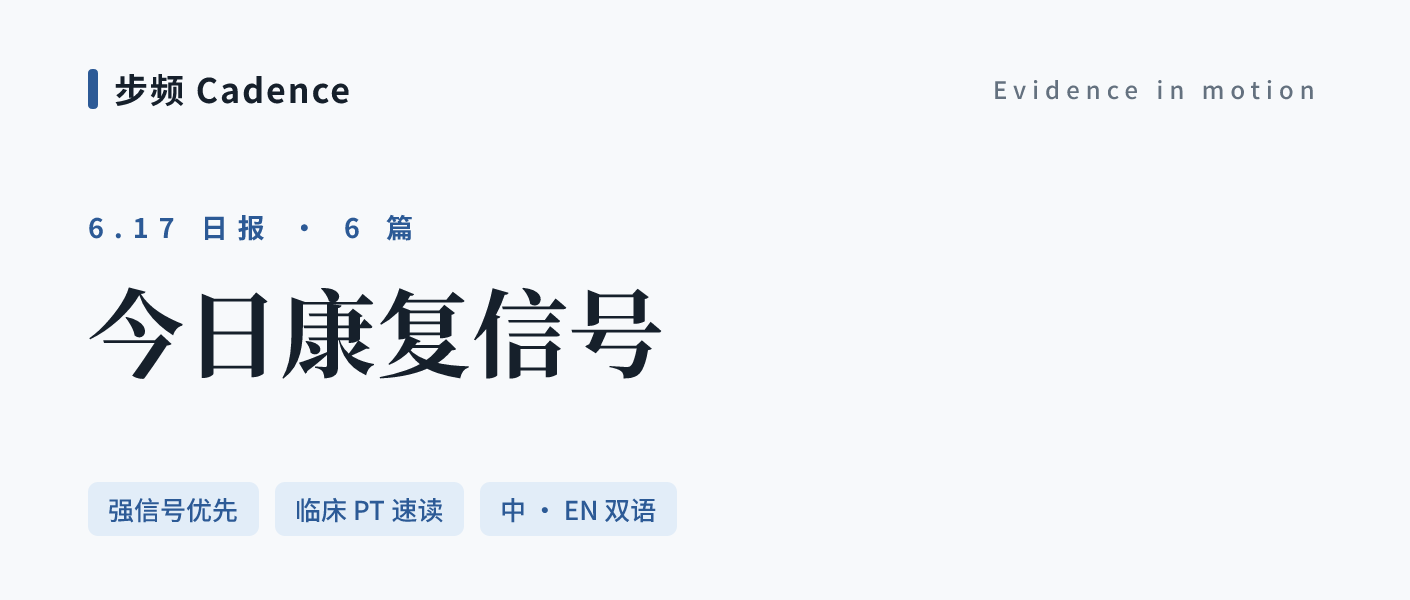
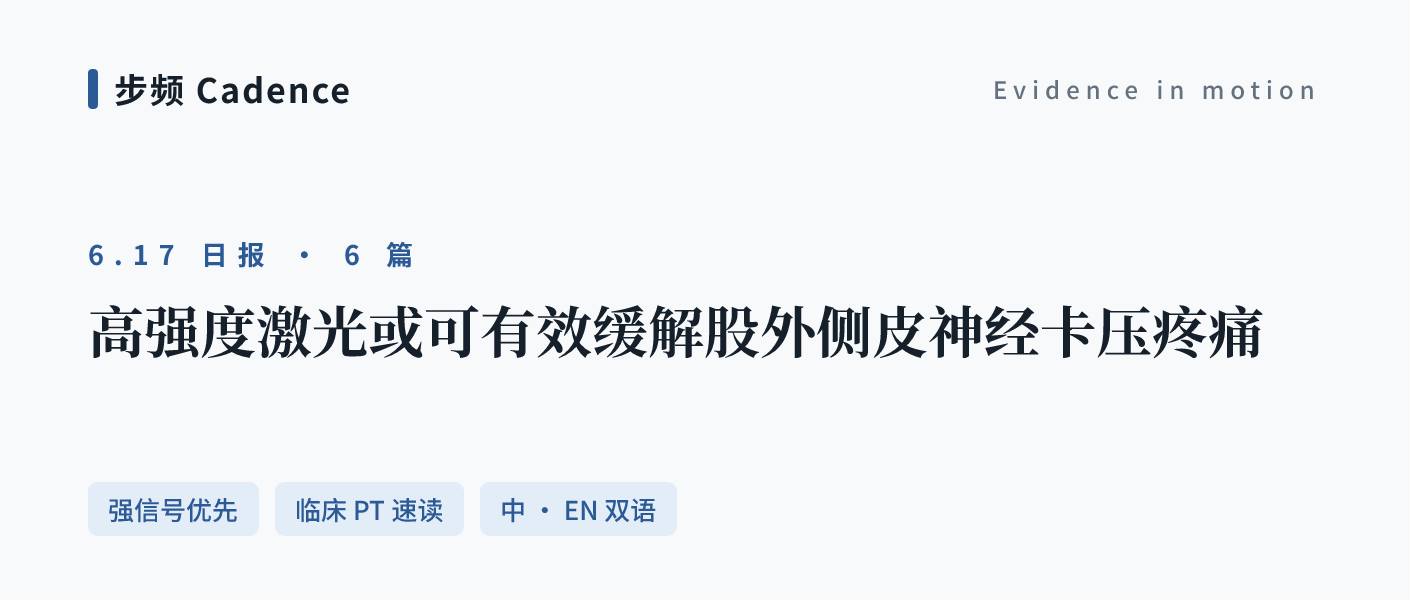
wechat-cover: headline 用当天标题(自适应字号/两行/去日期前缀)

Changed region(s): [[0.0624, 0.48, 0.905, 0.63], [0.0624, 0.36, 0.1872, 0.45], [0.2184, 0.36, 0.3121, 0.45]]

diff --git a/scripts/wechat-cover.js b/scripts/wechat-cover.js
@@ -29,10 +29,22 @@ const txt = (style, s) => h('div', { display: 'flex', ...style }, String(s));
 const chip = (s) => h('div', { display: 'flex', padding: '8px 20px', borderRadius: 10, backgroundColor: C.blue100 },
   txt({ fontFamily: SANS, fontWeight: 500, fontSize: 26, color: C.blue700 }, s));
 
-// Keep the serif headline on one line — satori has no auto-shrink.
-const fitHeadline = (s) => (s && s.length > 9 ? s.slice(0, 9) : s || '');
+// Headline now carries the day's actual hook (the issue title). satori has no
+// auto-shrink, so pick a font size by length and cap to ~2 lines; drop the
+// leading date (the eyebrow already shows it).
+const CONTENT_W = W - 88 * 2; // inner width after horizontal padding
+function fitHeadline(raw) {
+  let s = String(raw || '').replace(/^\s*\d{1,2}[.\-/]\d{1,2}\s*/, '').trim();
+  if (!s) s = '今日康复信号';
+  const size = s.length <= 9 ? 92 : s.length <= 16 ? 70 : s.length <= 26 ? 56 : 48;
+  const perLine = Math.floor(CONTENT_W / (size * 1.02));
+  const maxChars = perLine * 2; // at most two lines
+  if (s.length > maxChars) s = s.slice(0, maxChars - 1).trim() + '…';
+  return { text: s, size };
+}
 
 function cover({ headline, eyebrow }) {
+  const fh = fitHeadline(headline);
   return col({ width: W, height: H, backgroundColor: C.paper, padding: '64px 88px', justifyContent: 'space-between' },
     row({ justifyContent: 'space-between', alignItems: 'center', width: '100%' },
       row({ alignItems: 'center', gap: 16 },
@@ -43,7 +55,7 @@ function cover({ headline, eyebrow }) {
     ),
     col({ gap: 22 },
       txt({ fontFamily: SANS, fontWeight: 700, fontSize: 27, color: C.blue700, letterSpacing: 10 }, eyebrow),
-      txt({ fontFamily: SERIF, fontWeight: 700, fontSize: 96, color: C.ink900, lineHeight: 1.25 }, fitHeadline(headline)),
+      txt({ fontFamily: SERIF, fontWeight: 700, fontSize: fh.size, color: C.ink900, lineHeight: 1.2, maxWidth: CONTENT_W, flexWrap: 'wrap' }, fh.text),
     ),
     row({ gap: 16 }, chip('强信号优先'), chip('临床 PT 速读'), chip('中 · EN 双语')),
   );

diff --git a/scripts/wechat-brief.js b/scripts/wechat-brief.js
@@ -144,7 +144,7 @@ async function main() {
     const { renderCover } = require('./wechat-cover.js');
     const [, mm, dd] = dateStr.split('-');
     const out = path.join(BRIEFS_DIR, `${dateStr}-cover.png`);
-    await renderCover({ headline: '今日康复信号', eyebrow: `${+mm}.${+dd} 日报 · ${recent.length} 篇`, out });
+    await renderCover({ headline: title || '今日康复信号', eyebrow: `${+mm}.${+dd} 日报 · ${recent.length} 篇`, out });
     console.log(`  ✅ briefs/${dateStr}-cover.png`);
   } catch (e) {
     console.error('  ⚠️  cover render failed (non-fatal):', e.message);